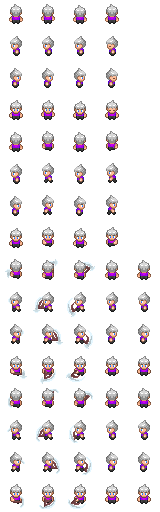
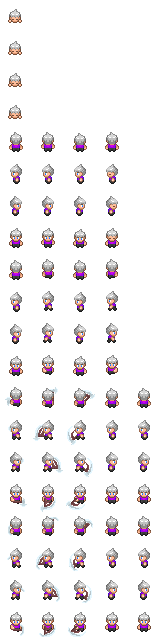
added rudimentary collision avoidance for moving entities

diff --git a/src/entities/Entity.java b/src/entities/Entity.java
@@ -1,7 +1,9 @@
 package entities;
 
+import handlers.EntityHandler;
 import objects.GameObject;
 import objects.Player;
+import pathfinding.AStar;
 import resources.ResourceObject;
 import utils.ImageLoader;
 
@@ -30,12 +32,14 @@ public abstract class Entity extends GameObject implements Serializable {
     public static final int RIGHT = 2;
     public static final int DOWN = 3;
 
-    // All Entity Animations
-    public static final int IDLE = 0;
-    public static final int WALK = 1;
+    // All Entity States
+    public static final int DEAD = 0;
+    public static final int IDLE = 1;
+    public static final int WALKING = 2;
 
     protected ArrayList<Point> path;
     protected Player player;
+    protected EntityHandler entityHandler;
 
     protected int entityType;
     protected int health, maxHealth, damage;
@@ -43,7 +47,7 @@ public abstract class Entity extends GameObject implements Serializable {
     protected int actionTickMax;
     protected int actionRange, sightRange;
     protected int direction = DOWN;
-    protected int animation = IDLE;
+    protected int state = IDLE;
     protected int animationFrame = 0;
     protected int animationTick = 0;
     protected float x, y, speed;
@@ -53,12 +57,13 @@ public abstract class Entity extends GameObject implements Serializable {
     protected ResourceObject resourceToGather;
     protected Entity entityToAttack;
 
-    public Entity(Player player, float x, float y, int entityType, int id) {
+    public Entity(Player player, float x, float y, int entityType, int id, EntityHandler entityHandler) {
         super(id);
         this.player = player;
         this.x = x;
         this.y = y;
         this.entityType = entityType;
+        this.entityHandler = entityHandler;
         this.maxHealth = getDefaultMaxHealth(entityType);
         this.health = maxHealth;
         this.damage = getDefaultDamage(entityType);
@@ -112,9 +117,9 @@ public abstract class Entity extends GameObject implements Serializable {
         };
     }
 
-    public static BufferedImage getSprite(int entityType, int animation, int dir, int frame) {
+    public static BufferedImage getSprite(int entityType, int state, int dir, int frame) {
         return switch (entityType) {
-            case LABORER -> ImageLoader.laborer[animation][dir][frame];
+            case LABORER -> ImageLoader.laborer[state][dir][frame];
             default -> null;
         };
     }
@@ -131,7 +136,7 @@ public abstract class Entity extends GameObject implements Serializable {
             if (path != null && !path.isEmpty())
                 move();
             if ((resourceToGather != null && isTargetInRange(resourceToGather)) || entityToAttack != null && isTargetInRange(entityToAttack)) {
-                if (animation != WALK && animation != IDLE)
+                if (state != WALKING && state != IDLE)
                     turnTowardsTarget();
                 actionTick++;
             }
@@ -160,8 +165,8 @@ public abstract class Entity extends GameObject implements Serializable {
             targetX = resourceToGather.getTileX();
             targetY = resourceToGather.getTileY();
         } else if (entityToAttack != null) {
-            targetX = (int) (entityToAttack.getHitbox().getX() / TILE_SIZE);
-            targetY = (int) ((entityToAttack.getHitbox().getY() - TOP_BAR_HEIGHT) / TILE_SIZE);
+            targetX = (int) (entityToAttack.getHitbox().x / TILE_SIZE);
+            targetY = (int) ((entityToAttack.getHitbox().y - TOP_BAR_HEIGHT) / TILE_SIZE);
         }
 
         if (targetY < entityY)
@@ -176,7 +181,7 @@ public abstract class Entity extends GameObject implements Serializable {
     }
 
     protected void move() {
-        animation = WALK;
+        state = WALKING;
         // Check if Entity has reached the current path point based on movement speed
         int currentX = path.get(0).x * TILE_SIZE;
         int currentY = path.get(0).y * TILE_SIZE + TOP_BAR_HEIGHT;
@@ -191,9 +196,18 @@ public abstract class Entity extends GameObject implements Serializable {
             y = currentY;
             updateHitbox();
             path.remove(0);
+            if (!path.isEmpty()) {
+                Point next = path.get(0);
+                Entity e = entityHandler.getEntityAtCoord(next.x * TILE_SIZE, next.y * TILE_SIZE + TOP_BAR_HEIGHT, true);
+                if (e != null) {
+                    Point start = new Point(hitbox.x / TILE_SIZE, (hitbox.y - TOP_BAR_HEIGHT) / TILE_SIZE);
+                    path = AStar.pathFind(start, path.get(path.size() - 1), entityHandler.getPlay());
+                }
+            }
         }
-        if (path.isEmpty()) {
-            animation = IDLE;
+
+        if (path == null || path.isEmpty()) {
+            state = IDLE;
             return;
         }
 
@@ -272,12 +286,12 @@ public abstract class Entity extends GameObject implements Serializable {
         this.animationTick = animationTick;
     }
 
-    public int getAnimation() {
-        return animation;
+    public int getState() {
+        return state;
     }
 
-    public void setAnimation(int animation) {
-        this.animation = animation;
+    public void setState(int state) {
+        this.state = state;
     }
 
     public int getDamage() {

diff --git a/src/handlers/EntityHandler.java b/src/handlers/EntityHandler.java
@@ -50,9 +50,9 @@ public class EntityHandler implements Serializable {
 
     public void render(Graphics g, int xOffset, int yOffset) {
         for (Entity e : entities) {
-            g.drawImage(Entity.getSprite(e.getEntityType(), e.getAnimation(), e.getDirection(), e.getAnimationFrame()), e.getHitbox().x - (xOffset * TILE_SIZE), e.getHitbox().y - (yOffset * TILE_SIZE), null);
+            g.drawImage(Entity.getSprite(e.getEntityType(), e.getState(), e.getDirection(), e.getAnimationFrame()), e.getHitbox().x - (xOffset * TILE_SIZE), e.getHitbox().y - (yOffset * TILE_SIZE), null);
             // Debugging
-//            drawPath(e, g, xOffset, yOffset);
+            drawPath(e, g, xOffset, yOffset);
 //            drawHitbox(e, g, xOffset, yOffset);
         }
     }
@@ -68,7 +68,7 @@ public class EntityHandler implements Serializable {
             Collections.shuffle(spawnPoints, random);
             for (int j = 0; j < maxStartingEntities; j++) {
                 Point spawn = spawnPoints.get(j);
-                entities.add(new Laborer(players.get(i), spawn.x * TILE_SIZE, spawn.y * TILE_SIZE + TOP_BAR_HEIGHT, id++));
+                entities.add(new Laborer(players.get(i), spawn.x * TILE_SIZE, spawn.y * TILE_SIZE + TOP_BAR_HEIGHT, id++, this));
             }
         }
     }
@@ -138,7 +138,7 @@ public class EntityHandler implements Serializable {
                     boolean isCardinal = (x == tileX || y == tileY);
                     double distance = Math.sqrt(cSquared);
                     if (!isCardinal)
-                        distance *= 1.5;
+                        distance *= 2;
 
                     openTiles.put(distance, target);
                 }
@@ -162,15 +162,35 @@ public class EntityHandler implements Serializable {
         }
     }
 
-    public Entity getEntityAt(int x, int y) {
-        for (Entity e : entities)
-            if (e.getHitbox().contains(x, y))
-                return e;
+    public Entity getEntityAtCoord(int x, int y, boolean checkEntireTile) {
+        if (checkEntireTile) {
+            Rectangle tileBounds = new Rectangle(x / TILE_SIZE * TILE_SIZE, y / TILE_SIZE * TILE_SIZE, TILE_SIZE, TILE_SIZE);
+            for (Entity e : entities)
+                if (e.getHitbox().intersects(tileBounds))
+                    return e;
+        } else
+            for (Entity e : entities)
+                if (e.getHitbox().contains(x, y))
+                    return e;
         return null;
+    }
+
+
+    public boolean isEntityInTile(int tileX, int tileY) {
+        for (Entity e : entities) {
+            Rectangle tileBounds = new Rectangle(tileX * TILE_SIZE, tileY * TILE_SIZE + TOP_BAR_HEIGHT, TILE_SIZE, TILE_SIZE);
+            if (e.getHitbox().intersects(tileBounds))
+                return true;
+        }
+        return false;
     }
 
     public ArrayList<Entity> getEntities() {
         return entities;
+    }
+
+    public Play getPlay() {
+        return play;
     }
 
     public GameObject getTargetObject() {

diff --git a/src/gamestates/Play.java b/src/gamestates/Play.java
@@ -11,6 +11,7 @@ import handlers.BuildingHandler;
 import handlers.EntityHandler;
 import handlers.ResourceObjectHandler;
 import main.Game;
+import objects.Chunk;
 import objects.GameObject;
 import objects.Map;
 import objects.Player;
@@ -110,16 +111,22 @@ public class Play extends MapState implements Savable, Serializable {
     @Override
     public void render(Graphics g) {
         super.render(g);
+
+        // Debugging
+        drawChunkBorders(g);
+
         buildingHandler.render(g, xTileOffset, yTileOffset);
         entityHandler.render(g, xTileOffset, yTileOffset);
 
         actionBar.render(g);
         gameStatBar.render(g);
+
         miniMap.render(g, xTileOffset, yTileOffset);
 
         if (inGameArea)
             renderAction(g, xTileOffset, yTileOffset);
         highlightSelectedObject(g, xTileOffset, yTileOffset);
+
     }
 
     private void renderAction(Graphics g, int xOffset, int yOffset) {
@@ -138,6 +145,16 @@ public class Play extends MapState implements Savable, Serializable {
             g.setColor(new Color(255, 255, 0, 100));
             g.fillRect(bounds.x - (xTileOffset * TILE_SIZE), bounds.y - (yTileOffset * TILE_SIZE), bounds.width, bounds.height);
         }
+    }
+
+    private void drawChunkBorders(Graphics g) {
+        Chunk[][] chunks = map.getChunks();
+        for (int y = 0; y < chunks.length; y++)
+            for (int x = 0; x < chunks.length; x++) {
+                Rectangle bounds = chunks[y][x].getBounds();
+                g.setColor(new Color(255, 255, 0));
+                g.drawRect(bounds.x - (xTileOffset * TILE_SIZE), bounds.y - (yTileOffset * TILE_SIZE), bounds.width, bounds.height);
+            }
     }
 
     public void determineAction() {
@@ -185,7 +202,7 @@ public class Play extends MapState implements Savable, Serializable {
     }
 
     public GameObject getGameObjectAt(int x, int y) {
-        Entity e = entityHandler.getEntityAt(x, y);
+        Entity e = entityHandler.getEntityAtCoord(x, y, true);
         if (e != null)
             return e;
 
@@ -247,7 +264,7 @@ public class Play extends MapState implements Savable, Serializable {
 
         if (inGameArea) {
             hoverBuilding = buildingHandler.getBuildingAt(x, y);
-            hoverEntity = entityHandler.getEntityAt(x, y);
+            hoverEntity = entityHandler.getEntityAtCoord(x, y, false);
             hoverResourceObject = resourceObjectData[tileY][tileX];
             determineAction();
         }

diff --git a/src/entities/Laborer.java b/src/entities/Laborer.java
@@ -1,30 +1,33 @@
 package entities;
 
+import handlers.EntityHandler;
 import objects.Player;
 import resources.ResourceObject;
 
 public class Laborer extends Entity {
 
-    // Laborer Specific Animations
-    public static final int CHOP = 2;
-    public static final int MINE = 3;
+    // Laborer Specific States
+    public static final int CHOPPING = 3;
+    public static final int MINING = 4;
 
-    public Laborer(Player player, int x, int y, int id) {
-        super(player, x, y, LABORER, id);
+    private boolean gathering;
+
+    public Laborer(Player player, int x, int y, int id, EntityHandler entityHandler) {
+        super(player, x, y, LABORER, id, entityHandler);
     }
 
-    private int getNumberofFrames(int animation) {
-        return switch (animation) {
-            case IDLE, WALK -> 4;
-            case CHOP, MINE -> 5;
+    private int getNumberofFrames(int state) {
+        return switch (state) {
+            case IDLE, WALKING -> 4;
+            case CHOPPING, MINING -> 5;
             default -> 1;
         };
     }
 
-    private int getMaxAnimationTicks(int animation) {
-        return switch (animation) {
+    private int getMaxAnimationTicks(int state) {
+        return switch (state) {
             case IDLE -> 25;
-            case WALK, CHOP, MINE -> 15;
+            case WALKING, CHOPPING, MINING -> 15;
             default -> 20;
         };
     }
@@ -32,19 +35,19 @@ public class Laborer extends Entity {
     public void update() {
         super.update();
         animationTick++;
-        if (animationTick >= getMaxAnimationTicks(animation)) {
+        if (animationTick >= getMaxAnimationTicks(state)) {
             animationTick = 0;
             animationFrame++;
-            if (animationFrame >= getNumberofFrames(animation))
+            if (animationFrame >= getNumberofFrames(state))
                 animationFrame = 0;
         }
 
         if (resourceToGather != null) {
-            if (animation == IDLE) {
-                animation = (resourceToGather.getResourceType() == ResourceObject.TREE) ? CHOP : MINE;
+            if (state == IDLE) {
+                state = (resourceToGather.getResourceType() == ResourceObject.TREE) ? CHOPPING : MINING;
                 animationFrame = 0;
             }
-        } else if (animation == CHOP || animation == MINE)
-            animation = IDLE;
+        } else if (state == CHOPPING || state == MINING)
+            state = IDLE;
     }
 }

diff --git a/src/objects/Chunk.java b/src/objects/Chunk.java
@@ -1,6 +1,10 @@
 package objects;
 
+import java.awt.*;
 import java.io.Serializable;
+
+import static main.Game.TILE_SIZE;
+import static ui.bars.TopBar.TOP_BAR_HEIGHT;
 
 public class Chunk implements Serializable {
 
@@ -8,6 +12,7 @@ public class Chunk implements Serializable {
 
     private Map map;
     private int startX, startY, width, height;
+    private Rectangle bounds;
 
     public Chunk(Map map, int startX, int startY, int width, int height) {
         this.map = map;
@@ -15,6 +20,11 @@ public class Chunk implements Serializable {
         this.startY = startY;
         this.width = width;
         this.height = height;
+        this.bounds = new Rectangle(startX * TILE_SIZE, startY * TILE_SIZE + TOP_BAR_HEIGHT, width * TILE_SIZE, height * TILE_SIZE);
+    }
+
+    public Rectangle getBounds() {
+        return bounds;
     }
 
     public Map getMap() {

diff --git a/src/objects/Player.java b/src/objects/Player.java
@@ -13,7 +13,7 @@ public class Player implements Serializable {
     private int food = 100;
     private int gold = 10000;
     private int iron = 0;
-    private int population = 1;
+    private int population = 2;
     private int stone = 250;
     private int wood = 500;
 
